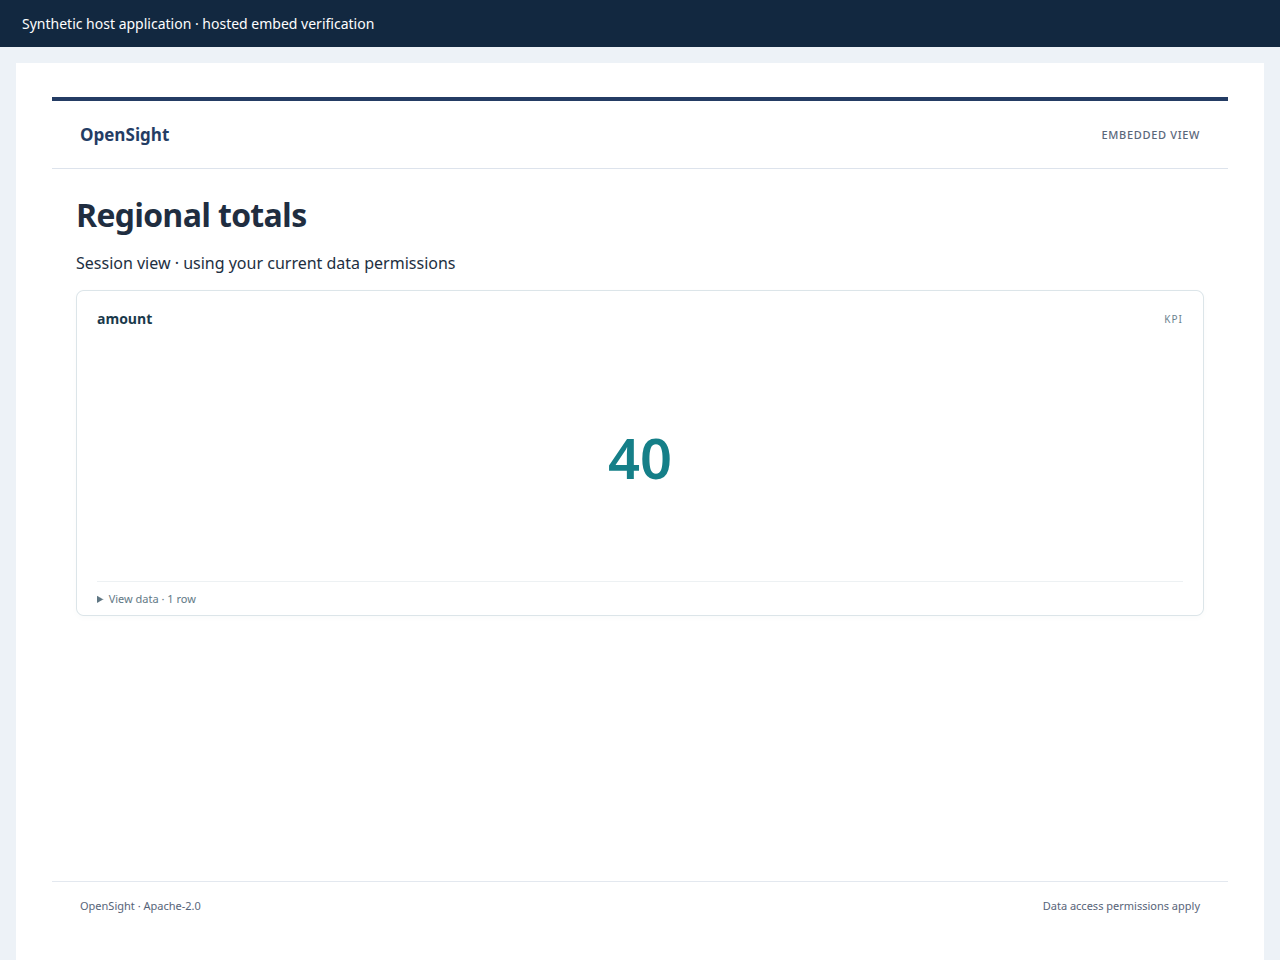
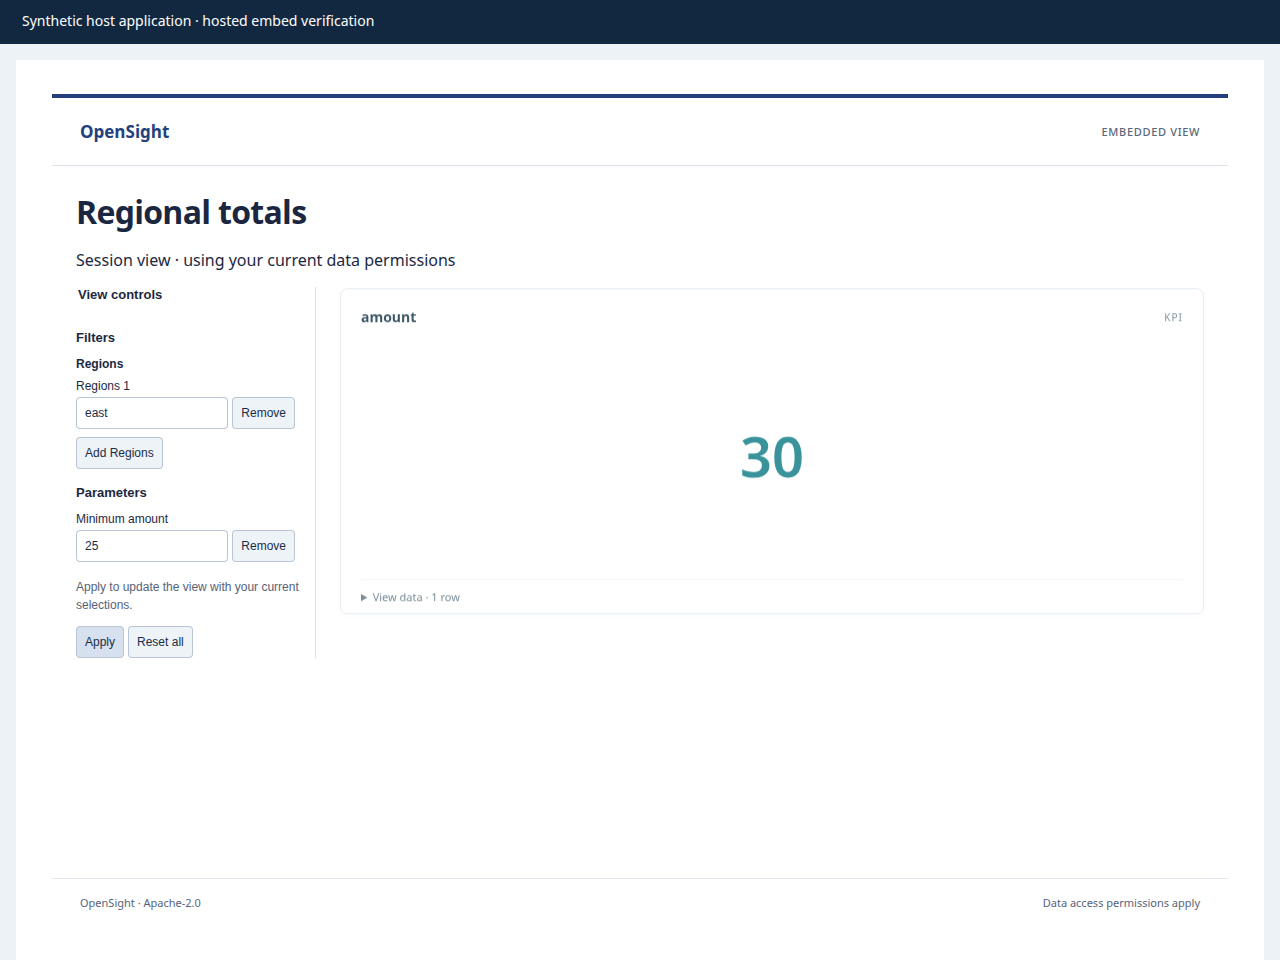
H6 #335: document live embed filtering, refresh captures and gap notes

diff --git a/site/docs/embedding-sessions/index.html b/site/docs/embedding-sessions/index.html
@@ -179,6 +179,59 @@ protected columns are denied. Virtual namespace values never select assets.</p>
 <p>Author saves validate source access and every visual before committing. Version
 and revision checks are atomic; clients cannot change grants or folder placement
 through a save. Existing assets need co-owner access where grants are explicit.</p>
+<h2 id="filtering-and-parameter-controls-335">Filtering and parameter controls (#335)</h2>
+<p>D-102 Q3 enables frame-local reader state for dashboard and visual sessions,
+including authorized anonymous sessions. The tenant must independently enable
+<code>features.filtering</code> and/or <code>features.parameterControls</code>; both default to false.
+Q and console experiences do not accept this reader-state contract.</p>
+<p><code>GET /api/embed/sessions/{id}/content</code> loads the asset&#39;s saved defaults.
+<code>POST</code> to the same endpoint refreshes the same content with state:</p>
+<pre><code class="language-json">{
+  &quot;filters&quot;: { &quot;region-filter&quot;: [&quot;east&quot;] },
+  &quot;parameters&quot;: { &quot;Minimum&quot;: [25] }
+}
+</code></pre>
+<p>Both methods require the existing <code>Authorization: Embed ...</code> credential and
+return <code>no-store</code> content. The response includes <code>controls: {filters, parameters}</code>
+with each editable binding&#39;s <code>id</code>, <code>name</code>, plain-text <code>label</code>, <code>type</code>, <code>multiple</code>,
+optional <code>integer</code>, and current <code>values</code>. Disabled features return empty control
+arrays. Controls derive only from filters and calculations reached by the
+authorized visuals; disabled filters, filters outside a visual-only session&#39;s
+scope and unused parameters are not editable. Stored control titles supply labels
+where available; otherwise the column or parameter name is used.</p>
+<p>The frame renders an input for each selected value, with Add/Remove, Apply and
+Reset all. Apply sends the complete current selection and hides old results while
+the server re-plans. Reset all submits <code>{}</code> to restore saved defaults. The frame
+keeps state only in memory and resubmits it after an on-demand reconnect; it never
+writes the dashboard, browser storage or parent messages. Terminal session failure
+clears the state. The v2 parent SDK and v1 snapshot transport are unchanged.</p>
+<p><code>filters</code> maps existing static <code>CategoryFilter</code> IDs to string arrays. The stored
+filter must use <code>FilterListConfiguration</code>, <code>EQUALS</code> and <code>NON_NULLS_ONLY</code>, as required
+by the existing planner. Parameter-bound category, numeric equality, numeric range
+and time range filters are controlled through their declared parameters, under
+the separate <code>parameterControls</code> flag. Parameters also bind to reachable calculated
+fields. This does not add unsupported filter operators or a source-value discovery
+query. Values need not be among the saved defaults; defaults are not access grants.</p>
+<p>Every supplied key must resolve to an editable binding in the asset&#39;s own
+definition. Unknown fields, IDs, unused parameters, wrong scalar types,
+multiplicity violations, duplicate values, invalid UTC dates or out-of-range
+integers return 422 <code>EMBED_STATE_INVALID</code>. Arrays contain at most 1,000 values;
+single-value parameters contain at most one. Strings are at most 10,000 characters
+and cannot contain NUL. Numbers must be finite; integer parameters require safe
+integers. Empty filter/parameter selections match no rows; scalar calculations
+that require a value instead reject an empty parameter through the planner.
+An aggregate over no matching rows retains normal query semantics (for example,
+a KPI sum returns <code>null</code>). Omitted keys use saved defaults, never prior requests.</p>
+<p>Submitting a <code>filters</code> or <code>parameters</code> map while its flag is off returns 403
+<code>EMBED_FEATURE_DISABLED</code>, even for <code>{}</code> or malformed map values. A config change
+revokes old sessions before accepting more queries. No request can supply columns,
+operators, scopes, dataset IDs, security policy or anonymous tags. The server
+validates the saved definition, applies values to a request-local copy, and plans
+again with the same viewer security before source I/O. Both source and dataset RLS
+still intersect; CLS denials include calculated-field dependencies. Denied columns
+retain the planner&#39;s concealed <code>UNRESOLVED_BINDING</code> diagnostic. A selection for an
+RLS-denied region yields no authorized matching rows and cannot widen access.
+H4 budgets, contained workers, and revision checks before publication still apply.</p>
 <h2 id="browser-and-sdk-transport">Browser and SDK transport</h2>
 <p><code>createSessionEmbeddingClient({allowedEmbedOrigins, getEmbedUrl, title?})</code> is the
 v2 SDK entry point. The trusted application supplies exact embed origins and a
@@ -212,6 +265,11 @@ its documented proxy query redaction.</p>
 <p>Tests are included in root <code>npm test</code>: session replay/races/restart, renewal,
 expiry, revisions, suspension, key rotation, viewer RLS/CLS, anonymous tag rules,
 author permissions, HTTP credential separation and SDK/iframe forgery attempts.
+Issue #335 extends the embed suites with typed state, independent feature flags,
+filter scope, reset/default isolation, frame refresh behavior, RLS intersection,
+anonymous-tag bypass attempts and direct/calculated CLS-denied bindings rejected
+before source I/O. The browser harness also changes live dashboard/visual controls,
+checks resulting totals and flags-off behavior, and captures narrow-screen layouts.
 The live Postgres test uses independent pools to prove atomic consumption and
 revocation across service instances.</p>
 <p>The separate real-browser harness uses only local HTTPS servers, synthetic data,

diff --git a/site/docs/embedding/index.html b/site/docs/embedding/index.html
@@ -160,12 +160,21 @@ markup, URL syntax, control/bidi characters, event-handler attributes, CSS
 text; no HTML insertion or dynamic style parser is used. Asset IDs only reference
 the validated tenant-owned PNG registry described above.</p>
 <p>Features describe consumption capabilities and never grant resource or data
-permissions. Registered dashboard/visual consumption, anonymous embedding and authoring can be
-true; anonymous and authoring still default to false. All
-unsupported true flags and unknown flag names return 422
-<code>EMBED_FEATURE_UNSUPPORTED</code>; known unsupported flags must be false. This includes
-parameter controls and filtering: Phase 3c snapshots have no interactive data
-session, so H5 does not display simulated controls.</p>
+permissions. Registered dashboard/visual consumption, anonymous embedding,
+authoring, filtering and parameter controls can be true. Filtering and parameter
+controls remain <strong>false by default</strong>, as do anonymous embedding and authoring.
+Issue #335 (D-102 Q3) enables real controls in live H6 dashboard/visual sessions:
+<code>filtering</code> exposes editable category filters; <code>parameterControls</code> exposes typed
+parameters used by those visuals, including parameter-bound filters and calculated
+fields. Both use the existing planner with the viewer&#39;s RLS/CLS. See the
+<a href="/docs/embedding-sessions/#filtering-and-parameter-controls-335">state contract</a>.</p>
+<p>A disabled flag hides its controls and rejects even an empty submitted state map
+with 403 <code>EMBED_FEATURE_DISABLED</code>. Replacing config invalidates existing sessions,
+including when a flag is turned off. Appearance never changes this authority.
+Unsupported true flags and unknown flag names return 422
+<code>EMBED_FEATURE_UNSUPPORTED</code>; export, download and persistent reader state must
+remain false. Phase 3c snapshots and the H5 offline preview have no live data
+session and do not display simulated filtering or parameter controls.</p>
 <h2 id="decided-scope-and-remaining-boundaries">Decided scope and remaining boundaries</h2>
 <p>HQ-5 permits narrow appearance/chrome changes; required OpenSight notices remain.
 HQ-6 enables anonymous embedding and registered authoring in H6. Export/download

diff --git a/docs/issue-335-gap-notes.md b/docs/issue-335-gap-notes.md
@@ -1,0 +1,106 @@
+# Issue #335: live embed controls and verification
+
+Branch: `work/issue-335-embed-filtering`. D-102 Q3 and the supplied issue brief
+govern this H6 slice. No dependency, SDK protocol, source execution path or
+`SOLUTION_DESIGN.md` change was needed. No merge, push, AWS call or deployment was
+performed.
+
+## Behavior and security
+
+Filtering and parameter controls are supported tenant capabilities and remain off
+by default. Dashboard/visual frames edit only values bound by the saved asset and
+the authorized visual plans. State stays in frame memory and is submitted on each
+refresh or reconnect. Reset all re-loads saved defaults; no reader state is stored
+on the server. The existing secured planner runs before source I/O, and the
+existing contained workers and revision checks still govern publication.
+
+The extended root-wired embed suites cover independent flags, unknown and
+mistyped state, duplicate/oversized values, disabled or out-of-scope filters,
+calculated-field parameters, default isolation, anonymous tags, source/dataset
+RLS intersection, and direct/calculated CLS-denied bindings. A west-region
+selection cannot expose the registered reader's denied west row. Its empty KPI
+sum is `null`, consistent with the shared evaluator. Invalid state and CLS
+references fail before the test source-read hook can run.
+
+The frame tests cover complete typed submissions, hiding stale results during
+refresh, reset, failed refreshes, escaped labels, absent controls when flags are
+off, and credential-only HTTP requests without parent-message state. Browser
+verification caught native form submission being blocked by the existing iframe
+sandbox; Apply and Enter now use explicit handlers without relaxing that sandbox.
+The parent frame retains the latest successful result, so a visibility/status
+recheck cannot remount the dashboard with its original selections or results.
+
+The full suite also caught the new inline renderer crossing the existing
+serverless response budget. Sign-in and Data-page CSS now load only in the main
+app, preserving their cascade there and removing unused CSS from embeds. The
+session renderer is 1,563,288 bytes before shell payload insertion; the existing
+CSP/nonce/envelope test passes without changing the 2 MiB limit. Serverless ingress
+now admits content POST under the same auth/body contract; a regression keeps
+status GET-only and rejects other unintended embed method combinations.
+
+## Browser and visual review
+
+The existing `packages/api/scripts/verify-embed-browser.mjs` harness was extended
+and passed with local HTTPS parent/frame servers, live PostgreSQL, synthetic
+data, the real hosted API and contained workers. The installed Playwright
+headless shell was selected through `OPENSIGHT_CHROMIUM`; no download was needed.
+Evidence is in `/tmp/issue-335-browser-final/evidence.json`. Desktop documentation
+uses the settled captures from `/tmp/issue-335-browser/`; the final browser run
+captured the same controls during their visibility-remount entrance animation.
+
+- Dashboard and visual-only inputs change the authorized total from 40 to 30.
+  Selecting west yields no matching total, and reset restores 40. Visibility
+  rechecks preserve the applied total and parameter values.
+- Disabling both flags removes controls; direct state submission returns
+  `EMBED_FEATURE_DISABLED`. Forged messages, bootstrap race/replay, blocked
+  third-party cookies, author saves, revocation, expiry, suspension, key rotation
+  and the v1 total-500 regression also pass.
+- The 1280px [dashboard capture](images/embed-session.png) and
+  [visual capture](images/embed-filtering-visual.png) retain the H6 header and
+  notices. Compact controls dock left and leave the chart dominant, following the
+  reference's left-to-right flow. The [390px capture](images/embed-filtering-mobile.png)
+  stacks the controls above the chart with no horizontal overflow.
+- The rebuilt static demo was compared with `docs/images/sample-dashboard.png`;
+  the navigation, chart arrangement, theme and explicit fixed-data notice remain
+  consistent. The supplied `qs-author-light-flow.jpg` was reviewed for dock/canvas
+  order. This is a layout review, not a measured QuickSight fidelity claim.
+
+The README hosted embed screenshot and hero GIF were refreshed. The GIF follows
+the supplied `readme-gif.mjs` storyboard with current navigation selectors and the
+documented ffmpeg palette/assembly steps, against `packages/web/dist/opensight-demo.html`.
+The capture reported zero page errors. Static demo files are not a deployed API;
+the offline preview continues to omit live controls. No remaining user-visible
+regression was identified, and no external issue was filed under the no-network
+constraint.
+
+## Verification
+
+Targeted API/HTTP tests: **17 passed / 0 failed / 0 skipped**.
+Targeted frame/transport and corrected CSS interaction tests: **30 passed / 0 failed / 0 skipped**.
+Targeted serverless ingress/envelope checks: **2 passed / 0 failed / 0 skipped**.
+`npm run build:demo --workspace=@opensight/web`, `node site/build-docs.mjs` and
+`node site/check.mjs` pass. Generated documentation is committed with its sources.
+
+The initial sandboxed test attempt could not create local listeners or contained
+workers. A root attempt with concurrent browser captures reported a failure in
+the existing H4 measured two-tenant performance test and was stopped. That test
+passed with the captures stopped. Managed foreground shells also terminated long
+runs with signal 15 before a summary, so complete root verification uses a detached
+local job with a durable log and exit-status file. A subsequent run exposed the
+renderer envelope regression described above. The CSS interaction fixture was
+updated to follow the unchanged app cascade after the imports moved. The final
+live browser/capture job exited successfully; its log is
+`/tmp/issue-335-pre-final.log`. Final root counts after these fixes are recorded
+below.
+
+### Post-reboot verification
+
+The first post-reboot root attempt exited 1 with **8,550 passed / 1 failed /
+38 skipped** across the workspace suites. The root conformance/site suite did not
+run because the workspace command failed. The sole failure was the existing
+`v1 dashboards: synchronous CSV/PDF artifacts use frozen definitions and live data,
+never stored renders` test: the second CSV request returned 409
+`EXECUTION_CANCELLED` before PDF rendering. Its isolated retry passed **1 / 0 / 0**
+with the original assertions and execution budgets; no code or test changes were
+made. The complete attempt and retry logs are
+`/tmp/issue-335-resumed-root.log` and `/tmp/issue-335-export-retry.log`.

diff --git a/docs/embed-sessions.md b/docs/embed-sessions.md
@@ -147,6 +147,69 @@ Author saves validate source access and every visual before committing. Version
 and revision checks are atomic; clients cannot change grants or folder placement
 through a save. Existing assets need co-owner access where grants are explicit.
 
+## Filtering and parameter controls (#335)
+
+D-102 Q3 enables frame-local reader state for dashboard and visual sessions,
+including authorized anonymous sessions. The tenant must independently enable
+`features.filtering` and/or `features.parameterControls`; both default to false.
+Q and console experiences do not accept this reader-state contract.
+
+`GET /api/embed/sessions/{id}/content` loads the asset's saved defaults.
+`POST` to the same endpoint refreshes the same content with state:
+
+```json
+{
+  "filters": { "region-filter": ["east"] },
+  "parameters": { "Minimum": [25] }
+}
+```
+
+Both methods require the existing `Authorization: Embed ...` credential and
+return `no-store` content. The response includes `controls: {filters, parameters}`
+with each editable binding's `id`, `name`, plain-text `label`, `type`, `multiple`,
+optional `integer`, and current `values`. Disabled features return empty control
+arrays. Controls derive only from filters and calculations reached by the
+authorized visuals; disabled filters, filters outside a visual-only session's
+scope and unused parameters are not editable. Stored control titles supply labels
+where available; otherwise the column or parameter name is used.
+
+The frame renders an input for each selected value, with Add/Remove, Apply and
+Reset all. Apply sends the complete current selection and hides old results while
+the server re-plans. Reset all submits `{}` to restore saved defaults. The frame
+keeps state only in memory and resubmits it after an on-demand reconnect; it never
+writes the dashboard, browser storage or parent messages. Terminal session failure
+clears the state. The v2 parent SDK and v1 snapshot transport are unchanged.
+
+`filters` maps existing static `CategoryFilter` IDs to string arrays. The stored
+filter must use `FilterListConfiguration`, `EQUALS` and `NON_NULLS_ONLY`, as required
+by the existing planner. Parameter-bound category, numeric equality, numeric range
+and time range filters are controlled through their declared parameters, under
+the separate `parameterControls` flag. Parameters also bind to reachable calculated
+fields. This does not add unsupported filter operators or a source-value discovery
+query. Values need not be among the saved defaults; defaults are not access grants.
+
+Every supplied key must resolve to an editable binding in the asset's own
+definition. Unknown fields, IDs, unused parameters, wrong scalar types,
+multiplicity violations, duplicate values, invalid UTC dates or out-of-range
+integers return 422 `EMBED_STATE_INVALID`. Arrays contain at most 1,000 values;
+single-value parameters contain at most one. Strings are at most 10,000 characters
+and cannot contain NUL. Numbers must be finite; integer parameters require safe
+integers. Empty filter/parameter selections match no rows; scalar calculations
+that require a value instead reject an empty parameter through the planner.
+An aggregate over no matching rows retains normal query semantics (for example,
+a KPI sum returns `null`). Omitted keys use saved defaults, never prior requests.
+
+Submitting a `filters` or `parameters` map while its flag is off returns 403
+`EMBED_FEATURE_DISABLED`, even for `{}` or malformed map values. A config change
+revokes old sessions before accepting more queries. No request can supply columns,
+operators, scopes, dataset IDs, security policy or anonymous tags. The server
+validates the saved definition, applies values to a request-local copy, and plans
+again with the same viewer security before source I/O. Both source and dataset RLS
+still intersect; CLS denials include calculated-field dependencies. Denied columns
+retain the planner's concealed `UNRESOLVED_BINDING` diagnostic. A selection for an
+RLS-denied region yields no authorized matching rows and cannot widen access.
+H4 budgets, contained workers, and revision checks before publication still apply.
+
 ## Browser and SDK transport
 
 `createSessionEmbeddingClient({allowedEmbedOrigins, getEmbedUrl, title?})` is the
@@ -187,6 +250,11 @@ its documented proxy query redaction.
 Tests are included in root `npm test`: session replay/races/restart, renewal,
 expiry, revisions, suspension, key rotation, viewer RLS/CLS, anonymous tag rules,
 author permissions, HTTP credential separation and SDK/iframe forgery attempts.
+Issue #335 extends the embed suites with typed state, independent feature flags,
+filter scope, reset/default isolation, frame refresh behavior, RLS intersection,
+anonymous-tag bypass attempts and direct/calculated CLS-denied bindings rejected
+before source I/O. The browser harness also changes live dashboard/visual controls,
+checks resulting totals and flags-off behavior, and captures narrow-screen layouts.
 The live Postgres test uses independent pools to prove atomic consumption and
 revocation across service instances.
 

diff --git a/CHANGELOG.md b/CHANGELOG.md
@@ -13,12 +13,6 @@ Unreleased entries into a new version section (see AGENTS.md §1).
 
 ### Fixed
 
-- Restore hosted Lambda startup by resolving ZIP inflation through the dependency's explicit Node module entry point; release images now check startup with Lambda's experimental module features disabled (#332).
-
-- Keep MCP discovery routing within the CloudFront Free plan cache-behavior limit while rejecting unknown OAuth paths at the edge (#332).
-
-- Route the three MCP OAuth discovery endpoints through the uncached hosted API in both AWS infrastructure entry points (#332); discovery previously reached static hosting and returned a missing page.
-
 - Hosted page reloads silently restore a valid sign-in using a rotating HttpOnly refresh cookie, waking sleeping workspaces before opening the app. Logout and revoked access prevent restoration; bearer tokens remain only in memory (#282).
 
 - MCP OAuth exchanges and revocations now have separate per-connection budgets, so independent connections behind one host do not share a ten-request IP limit or consume interactive sign-in budgets; unknown credentials retain dedicated abuse limits (#332).
@@ -98,6 +92,8 @@ Unreleased entries into a new version section (see AGENTS.md §1).
 - Marketing meta batch: the page titles and meta descriptions on the home, pricing, QuickSight/Tableau/Power BI alternatives, Metabase/Superset versus and docs pages now match the approved values exactly — no truncated titles and no auto-truncated excerpt descriptions on those pages; the docs generator carries the approved docs values as explicit meta overrides (#238).
 
 ### Added
+
+- Live dashboard and visual embeds now offer working filters and parameter controls when enabled by the tenant, with typed frame-local state, reset to saved defaults, and viewer RLS/CLS enforced on every refresh; both capabilities remain off by default (#335).
 
 - Customer-run QuickSight definition extractor with a List/Describe-only IAM policy, local credential-free outputs, diff-aware manifests and a shared versioned import-report contract with finding fingerprints and per-asset coverage. Multi-member bundle JSON works with the existing local importer. Hosted v1/CLI/SDK/MCP imports atomically retain member-owned reports and stage unresolved assets; Ask O provides deterministic extractor guidance and fingerprint-grouped remediation proposals that require normal authoring confirmation (#334).
 

diff --git a/docs/embedding-config.md b/docs/embedding-config.md
@@ -121,12 +121,22 @@ text; no HTML insertion or dynamic style parser is used. Asset IDs only referenc
 the validated tenant-owned PNG registry described above.
 
 Features describe consumption capabilities and never grant resource or data
-permissions. Registered dashboard/visual consumption, anonymous embedding and authoring can be
-true; anonymous and authoring still default to false. All
-unsupported true flags and unknown flag names return 422
-`EMBED_FEATURE_UNSUPPORTED`; known unsupported flags must be false. This includes
-parameter controls and filtering: Phase 3c snapshots have no interactive data
-session, so H5 does not display simulated controls.
+permissions. Registered dashboard/visual consumption, anonymous embedding,
+authoring, filtering and parameter controls can be true. Filtering and parameter
+controls remain **false by default**, as do anonymous embedding and authoring.
+Issue #335 (D-102 Q3) enables real controls in live H6 dashboard/visual sessions:
+`filtering` exposes editable category filters; `parameterControls` exposes typed
+parameters used by those visuals, including parameter-bound filters and calculated
+fields. Both use the existing planner with the viewer's RLS/CLS. See the
+[state contract](embed-sessions.md#filtering-and-parameter-controls-335).
+
+A disabled flag hides its controls and rejects even an empty submitted state map
+with 403 `EMBED_FEATURE_DISABLED`. Replacing config invalidates existing sessions,
+including when a flag is turned off. Appearance never changes this authority.
+Unsupported true flags and unknown flag names return 422
+`EMBED_FEATURE_UNSUPPORTED`; export, download and persistent reader state must
+remain false. Phase 3c snapshots and the H5 offline preview have no live data
+session and do not display simulated filtering or parameter controls.
 
 ## Decided scope and remaining boundaries
 

diff --git a/README.md b/README.md
@@ -415,6 +415,10 @@ domains remain separate, and the signed-URL SDK keeps its v1 behavior. See
 [embedding configuration](docs/embedding-config.md) and
 [session contracts and limits](docs/embed-sessions.md).
 
+Live dashboard and visual embeds offer filters and typed parameter controls when
+enabled by the tenant. Apply re-plans with the viewer's RLS/CLS; Reset all restores
+saved defaults. Both capabilities remain disabled by default.
+
 ![Registered hosted embed using synthetic viewer-filtered data](docs/images/embed-session.png)
 
 The separate [offline appearance preview](docs/images/embed-preview.png) shows
